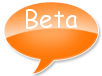
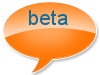
changed beta colors

diff --git a/webroot/css/default.css b/webroot/css/default.css
@@ -90,10 +90,14 @@ body img{
 #tagline a{
     width:300px;
     margin-left:20px;
-    color: rgb(199, 102, 42);
+    color: rgb(100, 138, 30);
     font-size: 1em;
     text-decoration: none;
     font-weight: bold;
+}
+
+#tagline a:hover{
+    text-decoration: none;
 }
 
 #menu{
@@ -108,7 +112,8 @@ body img{
 
 #beta{
     position: absolute;
-    left: 290px;
+    left: 275px;
+    height: 50px;
 }
 
 /*--------------Login Page--------------*/
@@ -141,7 +146,7 @@ body img{
 /*--------content menu and links-----------*/
 
 #contentmenu{
-    margin-top: 30px;
+    margin-top: 20px;
     margin-bottom: 30px;
     margin-left: auto;
     margin-right: auto;
